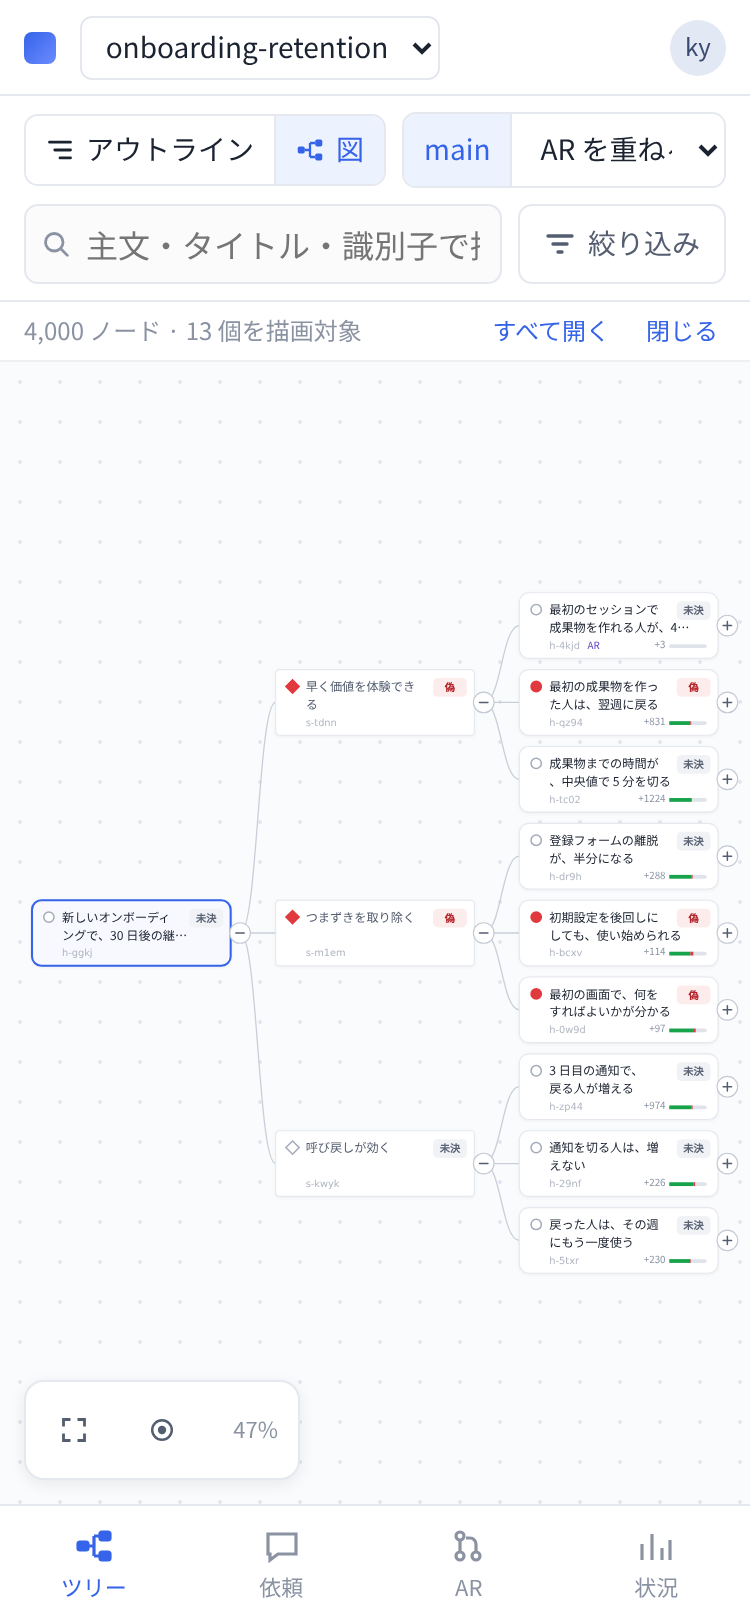
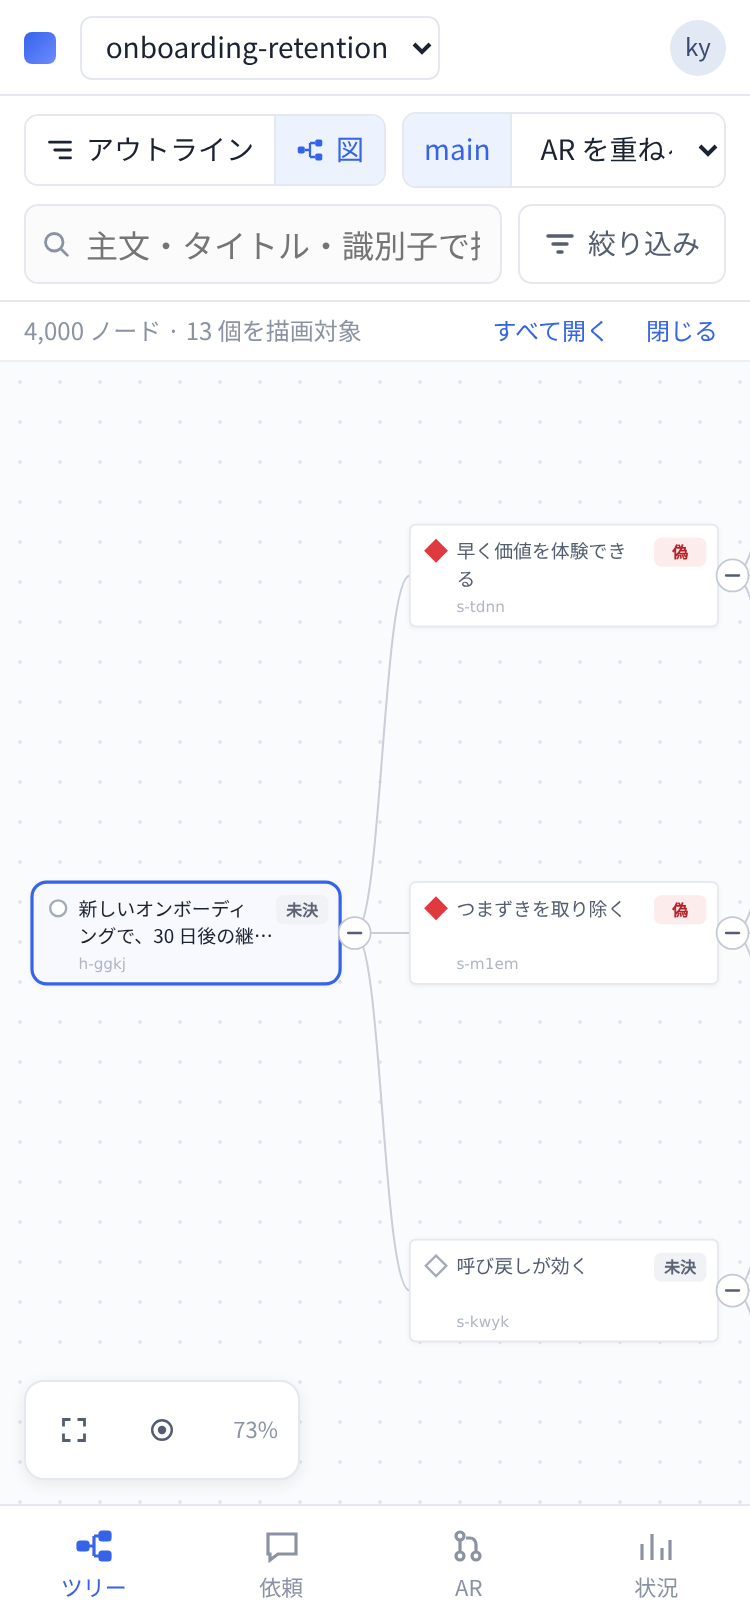
試作: モバイルの図は根と 1 段目だけを収め、70% まで。検索は入力が止まって 300 ms で収め直す

diff --git a/prototypes/webui-viewer/src/GraphView.tsx b/prototypes/webui-viewer/src/GraphView.tsx
@@ -16,6 +16,7 @@ interface Props {
   head: React.ReactNode;
   searching: boolean;
   fitKey: string; // 検索と絞り込み。変わったら収め直す
+  fitPending: boolean; // 検索の入力の途中（収め直しを待っている）
 }
 
 interface Placed { id: string; x: number; y: number; parent: string | null; row: Row }
@@ -96,13 +97,19 @@ export function GraphView(p: Props) {
   }, [layout, box, animateTo, size.w, size.h]);
 
   // 根を左端に寄せ、開いている部分が収まるまで縮める（下限 lower）
+  // モバイルは、根と 1 段目だけを収め、縮めるのは 70% まで
   const frame = useCallback((lower: number): View => {
     const pad = 16;
+    if (p.mobile && lower === LOD_K) {
+      const k = Math.max(0.7, Math.min(1, (box.w - pad * 2) / (size.col + size.w)));
+      const root = p.rows.length ? layout.pos.get(p.rows[0].id) : undefined;
+      return { k, x: pad, y: box.h / 2 - k * ((root?.y ?? 0) + size.h / 2) };
+    }
     const k = Math.max(lower, Math.min(1, (box.w - pad * 2) / layout.width, (box.h - pad * 2) / layout.height));
     const root = p.rows.length ? layout.pos.get(p.rows[0].id) : undefined;
     const y = k * layout.height <= box.h - pad * 2 ? (box.h - k * layout.height) / 2 : box.h / 2 - k * ((root?.y ?? 0) + size.h / 2);
     return { k, x: pad, y };
-  }, [box, layout, p.rows, size.h]);
+  }, [box, layout, p.rows, p.mobile, size.h, size.col, size.w]);
   const fit = useCallback(() => animateTo(frame(MIN_K)), [animateTo, frame]);
 
   // 最初の表示：収める（下限 45%）。選んだノードへのフォーカスは効かせない
@@ -129,7 +136,7 @@ export function GraphView(p: Props) {
   useEffect(() => {
     if (!ready.current || prevSel.current === p.selected) return;
     prevSel.current = p.selected;
-    if (!p.selected || performance.now() < quietUntil.current) return;
+    if (!p.selected || p.fitPending || performance.now() < quietUntil.current) return;
     const n = layout.pos.get(p.selected);
     if (!n) return;
     const v = viewRef.current;

diff --git a/prototypes/webui-viewer/src/App.tsx b/prototypes/webui-viewer/src/App.tsx
@@ -51,6 +51,9 @@ export function App() {
   const [view, setView] = useState<'outline' | 'graph'>(params.get('view') === 'graph' ? 'graph' : 'outline');
   const mobile = useMobile();
   const [sheet, setSheet] = useState(params.get('sheet') === '1');
+  // 検索の語は、入力が止まって 300 ms たってから図を収め直す
+  const [settledQuery, setSettledQuery] = useState(query);
+  useEffect(() => { const t = setTimeout(() => setSettledQuery(query), 300); return () => clearTimeout(t); }, [query]);
   const [filterSheet, setFilterSheet] = useState(params.get('fsheet') === '1');
   // 利用者が選んだとき（モバイルでは詳細のボトムシートを開く）
   const pick = useCallback((id: string) => { setSelected(id); if (matchMedia('(max-width: 767px)').matches) setSheet(true); }, []);
@@ -299,7 +302,8 @@ export function App() {
               filtered={include !== null}
               mobile={mobile}
               searching={query.trim() !== ''}
-              fitKey={`${query.trim()}|${[...filters].sort().join(',')}|${showInactive}`}
+              fitPending={settledQuery !== query}
+              fitKey={`${settledQuery.trim()}|${[...filters].sort().join(',')}|${showInactive}`}
               head={
                 <div className="tree-head">
                   <span className="dim">
